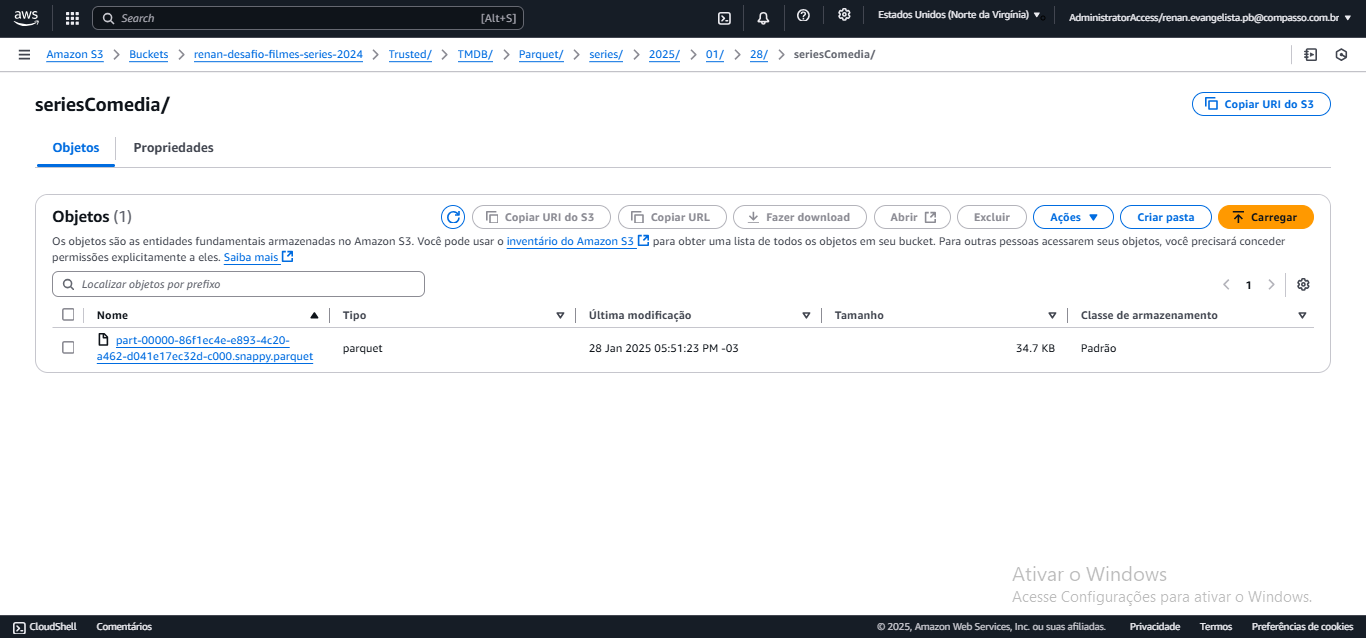
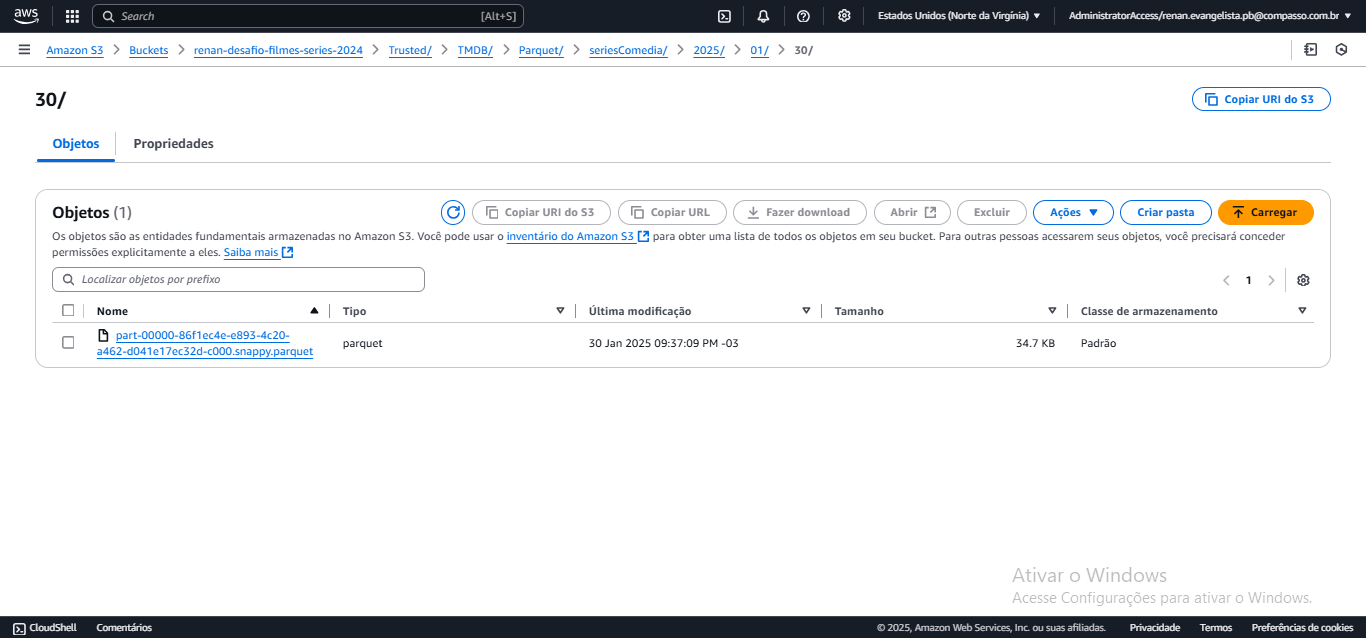
Depositando Sprint 8

diff --git a/Sprint8/desafio/JSON/jobJsonAnimacao.py b/Sprint8/desafio/JSON/jobJsonAnimacao.py
@@ -1,0 +1,51 @@
+import sys
+from pyspark.context import SparkContext
+from awsglue.context import GlueContext
+from awsglue.job import Job
+from awsglue.transforms import *
+from awsglue.utils import getResolvedOptions
+from awsglue.dynamicframe import DynamicFrame
+from pyspark.sql.functions import date_format, current_date
+from pyspark.sql.functions import when, col, lit
+from pyspark.sql.window import Window
+
+args = getResolvedOptions(sys.argv, ['JOB_NAME','S3_INPUT_PATH'])
+sc = SparkContext()
+glueContext = GlueContext(sc)
+spark = glueContext.spark_session
+job = Job(glueContext)
+job.init(args['JOB_NAME'], args)
+
+source_file = args['S3_INPUT_PATH']
+#target_path = args['S3_TARGET_PATH']
+
+dadoJson = glueContext.create_dynamic_frame.from_options(
+    connection_type="s3",
+    format="json",
+    connection_options={"paths": [source_file], "recurse": True}
+)
+df = dadoJson.toDF()
+
+df = df.withColumn(
+    "IMDB ID",
+    when(col("IMDB ID").isNull(), lit(f"cod{df.select('IMDB ID').rdd.count()+1:02d}")).otherwise(col("IMDB ID"))
+)
+df = df.toDF(*[col.replace(" ", "_").replace("-", "_").replace("/", "_") for col in df.columns])
+
+
+dfDataAtual = spark.sql("SELECT current_date() AS data_atual")
+
+
+ano = dfDataAtual.select(date_format("data_atual", "yyyy").alias("ano")).collect()[0]["ano"]
+mes = dfDataAtual.select(date_format("data_atual", "MM").alias("mes")).collect()[0]["mes"]
+dia = dfDataAtual.select(date_format("data_atual", "dd").alias("dia")).collect()[0]["dia"]
+
+
+target_path = f"s3://renan-desafio-filmes-series-2024/Trusted/TMDB/Parquet/seriesAnimacao/{ano}/{mes}/{dia}"
+
+
+df.repartition(1).write.mode("overwrite") \
+    .format("parquet") \
+    .save(target_path)
+    
+job.commit()

diff --git a/Sprint8/desafio/CSV/jobCsv.py b/Sprint8/desafio/CSV/jobCsv.py
@@ -1,0 +1,43 @@
+import sys
+from pyspark.context import SparkContext
+from awsglue.context import GlueContext
+from awsglue.job import Job
+from awsglue.transforms import *
+from awsglue.utils import getResolvedOptions
+from awsglue.dynamicframe import DynamicFrame
+from pyspark.sql.functions import date_format, current_date
+
+args = getResolvedOptions(sys.argv, ['JOB_NAME','S3_INPUT_PATH'])
+sc = SparkContext()
+glueContext = GlueContext(sc)
+spark = glueContext.spark_session
+job = Job(glueContext)
+job.init(args['JOB_NAME'], args)
+
+source_file = args['S3_INPUT_PATH']
+#target_path = args['S3_TARGET_PATH']
+
+dadoCsv = glueContext.create_dynamic_frame.from_options(
+    connection_type="s3",
+    format="csv",
+    connection_options={"paths": [source_file], "recurse": True},
+    format_options={"withHeader": True, "separator": ","}
+)
+df = dadoCsv.toDF()
+dfDataAtual = spark.sql("SELECT current_date() AS data_atual")
+
+# Extrair o ano, mês e dia
+ano = dfDataAtual.select(date_format("data_atual", "yyyy").alias("ano")).collect()[0]["ano"]
+mes = dfDataAtual.select(date_format("data_atual", "MM").alias("mes")).collect()[0]["mes"]
+dia = dfDataAtual.select(date_format("data_atual", "dd").alias("dia")).collect()[0]["dia"]
+
+
+#target_path = f"s3://renan-desafio-filmes-series-2024/Trusted/Local/Parquet/series/{ano}/{mes}/{dia}/"
+target_path = f"s3://renan-desafio-filmes-series-2024/Trusted/Local/Parquet/movies/{ano}/{mes}/{dia}/"
+
+
+df.repartition(1).write.mode("overwrite") \
+    .format("parquet") \
+    .save(target_path)
+    
+job.commit()

diff --git a/Sprint8/desafio/JSON/jobJsonComedia.py b/Sprint8/desafio/JSON/jobJsonComedia.py
@@ -1,0 +1,45 @@
+import sys
+from pyspark.context import SparkContext
+from awsglue.context import GlueContext
+from awsglue.job import Job
+from awsglue.transforms import *
+from awsglue.utils import getResolvedOptions
+from awsglue.dynamicframe import DynamicFrame
+from pyspark.sql.functions import date_format, current_date
+
+args = getResolvedOptions(sys.argv, ['JOB_NAME','S3_INPUT_PATH'])
+sc = SparkContext()
+glueContext = GlueContext(sc)
+spark = glueContext.spark_session
+job = Job(glueContext)
+job.init(args['JOB_NAME'], args)
+
+source_file = args['S3_INPUT_PATH']
+#target_path = args['S3_TARGET_PATH']
+
+dadoJson = glueContext.create_dynamic_frame.from_options(
+    connection_type="s3",
+    format="json",
+    connection_options={"paths": [source_file], "recurse": True}
+)
+df = dadoJson.toDF()
+
+df = df.toDF(*[col.replace(" ", "_").replace("-", "_").replace("/", "_") for col in df.columns])
+
+
+dfDataAtual = spark.sql("SELECT current_date() AS data_atual")
+
+
+ano = dfDataAtual.select(date_format("data_atual", "yyyy").alias("ano")).collect()[0]["ano"]
+mes = dfDataAtual.select(date_format("data_atual", "MM").alias("mes")).collect()[0]["mes"]
+dia = dfDataAtual.select(date_format("data_atual", "dd").alias("dia")).collect()[0]["dia"]
+
+
+target_path = f"s3://renan-desafio-filmes-series-2024/Trusted/TMDB/Parquet/seriesComedia/{ano}/{mes}/{dia}"
+
+
+df.repartition(1).write.mode("overwrite") \
+    .format("parquet") \
+    .save(target_path)
+    
+job.commit()

diff --git a/Sprint8/desafio/README.md b/Sprint8/desafio/README.md
@@ -31,17 +31,184 @@ Quais dessas séries ainda continuam fazendo sucesso?
 
 
 ### Terceira entrega
-<!-- 
-Nessa Segunda entega do *Desafio Filmes e Séries* ela foi focada pela API The Movie DataBase, uma API que se liga a um banco de dados com todos os filmes e séries já feitos, com todas as suas características entregues, só basta ter um bom filtro na url que está pesguisando.
 
-Além do foco na aprendizagem da API TMDB, seria necessário realizar um programa que usaria essa API, e entregaria o conteudo que a API retornaria e colocala em um arquivo JSON. Esse processo é para ser feito na AWS Lambda e os arquivos que deveram ser criados nesse serviço, vão ser armazenados no bucket *renan-desafio-filmes-series-2024* da AWS S3. -->
+Nessa terceira entrega do *Desafio Filmes e Séries*, ela foi focada na transformação dos arquivos que estão na pasta *Raw* do bucket, os arquivos CSV e JSON, para o formato PARQUET, isso tudo seria feito no AWS Glue, sendo armazenados numa nova pasta no bucket *renan-desafio-filmes-series-2024* chamada *Trusted*. Além de realizar o desafio no Glue, ele teria que ser feito usando o Apache Spark, e usar a AWS Athena para verificar os arquivos PARQUET.
 
-
-
-- [Lambda Function Animação](./lambda_function_animacao.py)
-
-- [Lambda Function Comédia](./lambda_function_comedia.py)
+A organização dos arquivos python para a execução do desafio está separado em pastas, CSV e JSON, e com seus arquivos pythons em cada uma delas.
 
 
-![Imagem Pasta Python](../evidencias/PastaPython.png)
+- [AWS Glue para CSV](./CSV/jobCsv.py)
+
+- [AWS Glue para JSON Comédia](./JSON/jobJsonComedia.py)
+
+- [AWS Glue para JSON Animação](./JSON/jobJsonAnimacao.py)
+
+Comecando a criar a terceira entrega do desafio final, ele começa criando um Job no Glue, com as configuranções usadas no antigo exercício Glue, feito em sprint anterior, além das configurações que as próprias orientações do desafio mandou.
+
+
+![Imagem ](../evidencias/CriandoJobGlue.png)
+
+
+![Imagem ](../evidencias/JobConfig.png)
+
+
+![Imagem ](../evidencias/JobConfig2.png)
+
+
+Feito o job no Glue, e te-lo configurado, só precisei ver como estava o bucket antes de executar para pegar os caminhos que seriam usados como *S3_INPUT_PATH* no job.
+
+
+![Imagem ](../evidencias/JobSeriePath.png)
+
+
+![Imagem ](../evidencias/JobMoviePath.png)
+
+
+![Imagem ](../evidencias/BucketAntes.png)
+
+
+Com todos os caminhos feito, só foi ir para o código. Indo para este primeiro código ele seria focado nos arquivos CSV's, o código python desse job ele teve sua dificuldade em ser feito na hora em como colocar a data no caminho de saida do arquivo parquet e tentar deixar ele em um único arquivo.
+
+
+![Imagem ](../evidencias/CsvJobCodigo.png)
+
+
+![Imagem ](../evidencias/CsvJobCodigo2.png)
+
+
+![Imagem ](../evidencias/RodandoJob.png)
+
+
+Nessa primeira vez rodando o código deu erro, e só arrumei depois de certos testes tentando ver onde era o erro, como a forma como guardar a data atual e juntar tudo em um único parquet, mas depois de arrumar esses problemas o job rodou certinho.
+
+
+![Imagem ](../evidencias/RodandoJobConcluido.png)
+
+
+Uma prova de como o código rodou bem, só foi ver as pastas criadas no bucket *renan-desafio-filmes-series-2024*.
+
+
+![Imagem ](../evidencias/BucketDepois.png)
+
+
+![Imagem ](../evidencias/BucketPastaSeries.png)
+
+
+![Imagem ](../evidencias/BucketPastaAno.png)
+
+
+![Imagem ](../evidencias/BucketPastaSeriesParquet.png)
+
+
+Com o primeiro arquivo CSV feito, só foi necessário alterar o caminho da saida do arquivo PARQUET do código no job e o caminho de entrada do arquivo csv, que está configurado com váriavel na própria configuração do Job do Glue, isso fez com que o segundo código python fosse praticamente idêntico ao primeiro, só que alterando esses dois caminhos.
+
+
+![Imagem ](../evidencias/CsvMovieJobCodigo.png)
+
+
+![Imagem ](../evidencias/RodandoMovieJobConcluido.png)
+
+
+E ainda, criando o diretório certo no bucket.
+
+
+![Imagem ](../evidencias/BucketPastaMovie.png)
+
+
+![Imagem ](../evidencias/BucketPastaMoviesParquet.png)
+
+
+Com o fim do arquivo python para tratar os arquivos CSV, foi a hora de tratar os arquivos JSON's que tenho, o primeiro que escolhi foi o JSON de comédia, ele só precisaria arrumar a ordem de como estava o registros e transformar em PARQUET, então não tive muita dificuldade nesse primeiro arquivo python.
+
+
+![Imagem ](../evidencias/JsonJobCodigo.png)
+
+
+![Imagem ](../evidencias/JobJsonComediaPath.png)
+
+
+![Imagem ](../evidencias/RodandoJobJsonComedia.png)
+
+
+![Imagem ](../evidencias/RodandoJobJsonComediaConcluido.png)
+
+
+O caminho que escolhi para fazer esses JSON's foi em separar eles por cada série de gênero focada, pois a informações que consta neles são totalmente diferentes e que não se conversão entre elas, só com o arquivo CSV, então o diretório que ficou no fim dele foi *Trusted/TMDB/Parquet*, a especificação de dados foi *seriesComedia*, e a data de ingestão. Esse foi o único diferencia que realizei no caminho do arquivo.
+
+
+![Imagem ](../evidencias/BucketTmdb.png)
+
+
+![Imagem ](../evidencias/BucketPastaSeriesJson.png)
+
+
+![Imagem ](../evidencias/BucketPastaComediaParquet.png)
+
+
+Com o fim do primeiro código python para os arquivos JSON's, foi fazer o segundo código, esse segundo código tive uma dificuldade em tentar colocar uma ideia no meu registro, tentar preencher os IDs do IMDB que estavam nulos, para realizar isso tive ajuda do monitor dessa sprint, o que também já me ajudou com possível problema que teria com essa ideia na próxima sprint, mas tentando colocar a ideia em pratica, estudei mais o Spark e fui tirando dúvidas que gerava com o monitor, e no fim consegui realizar uma forma de fazer essa ideia funcionar e não alterar o resto das informações do registro. E depois só foi fazer o caminho de saída do arquivo PARQUET, com a especificação de dados sendo *seriesAnimacao*.
+
+
+![Imagem ](../evidencias/JobJsonAnimacaoCodigo.png)
+
+
+Terminando os arquivos python's no Glue, foi só criar o Crawler para ver como estária o registro dos arquivos PARQUET, seguindo as antigas orientações do arquivo pdf enviado no exercício de Glue em sprint passada, começando com o Crawler para ler os arquivos PARQUET's da pasta *Trusted/Local*, colocando nome, caminho até ele, iam e saida (que seria a tabela).
+
+
+![Imagem ](../evidencias/CsvCrawlerNome.png)
+
+
+![Imagem ](../evidencias/CsvCrawlerCaminho.png)
+
+
+![Imagem ](../evidencias/CsvCrawlerIam.png)
+
+
+![Imagem ](../evidencias/CsvCrawlerOutput.png)
+
+
+![Imagem ](../evidencias/CsvCrawlerReview.png)
+
+
+![Imagem ](../evidencias/CsvCrawlerCriado.png)
+
+
+![Imagem ](../evidencias/CsvCrawlerConcluido.png)
+
+
+Com o Crawler feito só foi ir a tabela criada, e ir no AWS Athena para ver se o *SELECT* retornaria informação.
+
+
+![Imagem ](../evidencias/CsvCrawlerTabela.png)
+
+
+![Imagem ](../evidencias/CsvAthenaCodigo.png)
+
+
+![Imagem ](../evidencias/CsvAthenaConsulta.png)
+
+
+O sucesso do primeiro Crawler feito, só foi necessário fazer o que ia ler os arquivos que estão na pasta *Trusted/TMDB*, seguindo a mesma forma de criação do antigo Crawler.
+
+
+![Imagem ](../evidencias/JsonCrawlerReview.png)
+
+
+![Imagem ](../evidencias/JsonCrawlerCriado.png)
+
+
+![Imagem ](../evidencias/JsonCrawlerConcluido.png)
+
+
+E finalizando o desafio, só foi ver a tabela Crawler criado e ir na AWS Athena ver a consulta feita, que conseguiu retornar os registros do arquivo PARQUET.
+
+
+![Imagem ](../evidencias/JsonCrawlerTabela.png)
+
+
+![Imagem ](../evidencias/JsonAthenaCodigo.png)
+
+
+![Imagem ](../evidencias/JsonAthenaConsulta.png)
+
+
 

diff --git a/Sprint8/README.md b/Sprint8/README.md
@@ -5,8 +5,7 @@ Nessa sprint o foco foi em resolver os exercícios usando Spark e realizar a 3°
 Nesta sprint o foco foi em curso proporcionado pela Udemy, sem ter envolvimento com nenhum curso da AWS. Isso fez com que a pasta certificados fique vázia nessa sprint.
 
 ### Desafio
-
-
+O desafio da sprint é a continuação do Desafio Filmes e Séries, focado na construção de um Data Lake com etapas de Ingestão, Armazenamento, Processamento e Consumo. A análise abordou séries brasileiras de comédia e animação, formulando perguntas sobre sucessos, dubladores e novas produções. Na terceira entrega, o foco foi tansformar arquivos CSV e JSON da pasta RAW para o formato PARQUET usando AWS Glue e Apache Spark, armazenando-os na pasta TRUSTED do bucket *renan-desafio-filmes-series-2024*. O processo envolveu criar e configurar jobs no Glue para conversão dos arquivos e organizar a saída no S3. Após ajustes nos scripts Python, os arquivos foram processados corretamente. Para validar os dados, foram criados Crawlers no AWS Glue para catalogação e consultas no aWS Athena, garantindo a integridade e acessibilidade dos dados.
 
 - [Desafio](./desafio/)
 
